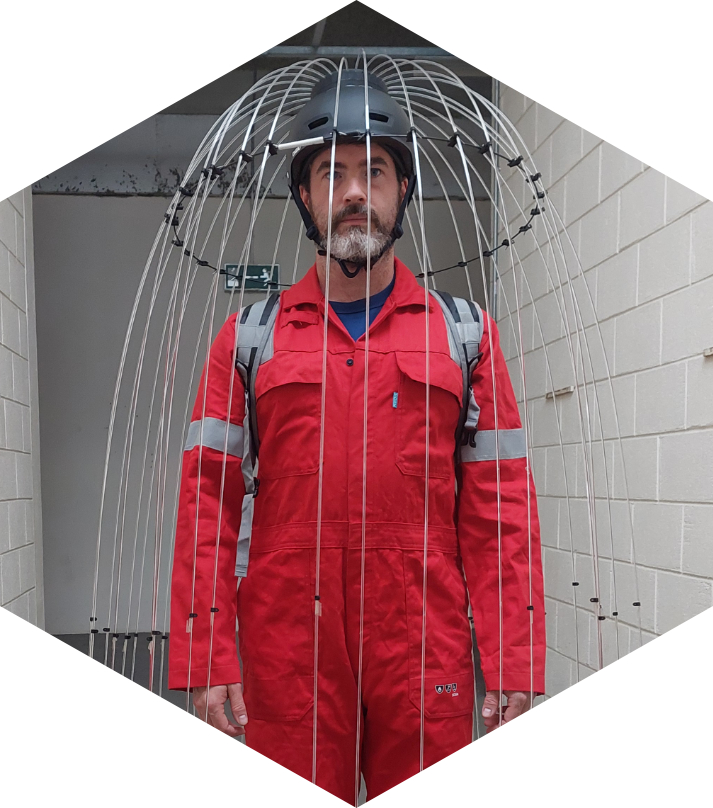
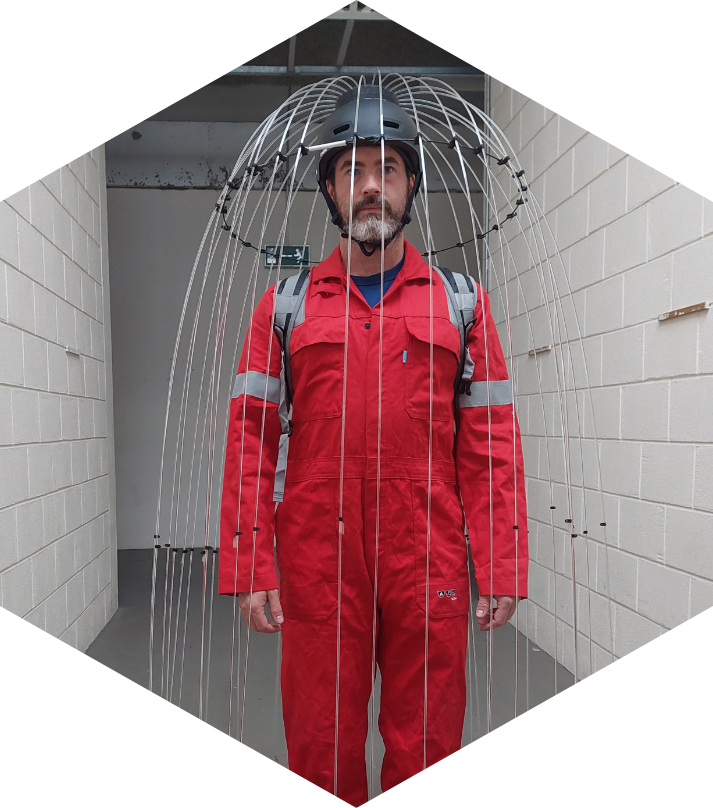
various small changes

diff --git a/css/styles.css b/css/styles.css
@@ -36,7 +36,7 @@
   p {
     font-family: Arial, sans-serif;
     font-size: clamp(var(--base-font-size), 2vw, var(--para-max));
-    text-align: justify;
+    text-align: left;
     margin-top: 0.625rem;
     color: white;
     max-width: 100%;
@@ -232,6 +232,9 @@
      SECTION 0 (HOME) STYLES
      ====================== */
   /* Custom Heading Overrides for Section0 */
+  #section0 {
+    position: relative;
+  }
   #section0 h1 {
     color: #36848a !important;
   }
@@ -244,34 +247,42 @@
     font-size: clamp(32px, 6vw, 40px);
   }
   
-  /* Section0 50/50 Layout */
-  .section0-content {
-    display: flex;
-    flex-direction: row;
-    align-items: center;
-    justify-content: center;
-    gap: 2rem;
-    padding: 20px;
-  }
-  .section0-content .image {
-    max-width: 80%;
-    display: flex;
-    align-items: center;
-    justify-content: center;
-    overflow: hidden;
-  }
-  .section0-content .image img {
-    width: 100%;
-    height: auto;
-    object-fit: contain;
-    max-height: 90vh; /* Adjust this value as needed */
-    object-position: center center;
-  }
-  .section0-content .text {
-    width: 50%;
-    padding-left: 10;
-    text-align: left;
-  }
+  /* Make the section0 content container fill the viewport and use a 50/50 layout */
+.section0-content {
+  display: flex;
+  flex-direction: row;
+  align-items: center;
+  justify-content: center;
+  gap: 2rem;
+  padding: 20px;
+  min-height: 100vh;  /* ensure it fills the viewport */
+}
+
+/* Left column: Image container */
+.section0-content .image {
+  width: 50%;
+  display: flex;
+  align-items: center;
+  justify-content: center;
+}
+
+/* The image itself */
+.section0-content .image img {
+  width: 100%;
+  height: auto;
+  max-height: 90vh;  /* similar constraint as contact page */
+  object-fit: contain;
+  object-position: center center;
+}
+
+/* Right column: Text container */
+.section0-content .text {
+  width: 50%;
+  display: flex;
+  flex-direction: column;
+  justify-content: center;
+  padding: 20px;
+}
   
   /* Mobile adjustments for Section0 */
   @media (max-width: 768px) {
@@ -291,7 +302,7 @@
     section p {
       max-width: 100%;
       padding: 0 2rem;
-      text-align: justify;
+      text-align: left;
     }
   }
   @media (orientation: portrait) {
@@ -313,15 +324,16 @@
   /* Section0 Background Image */
   .section0-image.top {
     position: absolute;
-    top: 0;
-    left: 0;
-    width: 80%;
-    height: 80vh;
-    background-image: url('../images/section0a.jpg');
-    background-size: contain;
-    background-repeat: no-repeat;
-    background-position: center center;
-    z-index: 0;
+  top: 50%;
+  left: 50%;
+  transform: translate(-50%, -50%);
+  width: 80%;
+  height: 80vh;
+  background-image: url('../images/section0a.jpg');
+  background-size: contain;
+  background-repeat: no-repeat;
+  background-position: center center;
+  z-index: 0;
   }
   
   img.responsive {
@@ -419,12 +431,16 @@ section:hover .arrow {
   }
   #biography-page .biog-image-wrapper {
     width: 50%;
-    padding: 20px;
-    box-sizing: border-box;
+    display: flex;
+    padding:20px;
+    align-items: center;
+    justify-content: center;
+    min-height: 100vh; /* Make sure it fills the viewport */
   }
   #biography-page .biog-image {
     width: 100%;
     height: 100%;
+    
     background-image: url('../images/biog.jpg');
     background-size: contain;
     background-repeat: no-repeat;
@@ -433,7 +449,7 @@ section:hover .arrow {
 /* Biography Page Right Column (Text) – remove vertical centering */
 #biography-page .biog-text {
   width: 50%;
-  padding: 2rem;
+  padding: 1rem;
   box-sizing: border-box;
   background: #fff;
   color: #333;
@@ -510,9 +526,12 @@ section:hover .arrow {
 /* Left Column: Background Image */
 .contact-page .content .image {
   width: 50%;
-  /* Use the contact.jpg as a background image */
+  display: flex;
+  align-items: center;
+  justify-content: center;
+  min-height: 100vh;  /* Ensures it fills the viewport */
   background-image: url('../images/contact.jpg');
-  background-size: contain;  /* or cover if you prefer */
+  background-size: contain; /* or cover if preferred */
   background-repeat: no-repeat;
   background-position: center center;
 }

diff --git a/index.html b/index.html
@@ -158,38 +158,56 @@
   </section>
 
   <script>
-    document.addEventListener("DOMContentLoaded", function () {
-      const sections = document.querySelectorAll("section");
+document.addEventListener("DOMContentLoaded", function () {
+  const sections = document.querySelectorAll("section");
+  const upArrows = document.querySelectorAll(".arrow-up");
+  const downArrows = document.querySelectorAll(".arrow-down");
 
-      function scrollToSection(offset) {
-        let currentSection = document.querySelector(".current-section") || sections[0];
-        let index = Array.from(sections).indexOf(currentSection);
-
-        let targetIndex = index + offset;
-        if (targetIndex >= 0 && targetIndex < sections.length) {
-          sections[targetIndex].scrollIntoView({ behavior: "smooth", block: "start" });
-
-          // Remove 'current-section' class from previous section and add it to new one
-          sections.forEach(section => section.classList.remove("current-section"));
-          sections[targetIndex].classList.add("current-section");
-        }
-      }
-
-      document.querySelectorAll(".arrow-down").forEach(arrow => {
-        arrow.addEventListener("click", function () {
-          scrollToSection(1); // Move to next section
-        });
-      });
-
-      document.querySelectorAll(".arrow-up").forEach(arrow => {
-        arrow.addEventListener("click", function () {
-          scrollToSection(-1); // Move to previous section
-        });
-      });
-
-      // Mark the first section as active initially
-      sections[0].classList.add("current-section");
+  function updateArrowVisibility(currentIndex) {
+    // Hide up arrows if on the first section (index 0), show otherwise
+    upArrows.forEach(arrow => {
+      arrow.style.display = currentIndex === 0 ? "none" : "block";
     });
+  }
+
+  function scrollToSection(offset) {
+    let currentSection = document.querySelector(".current-section") || sections[0];
+    let index = Array.from(sections).indexOf(currentSection);
+    let targetIndex = index + offset;
+
+    // Wrap-around logic for down arrow only, if you need it
+    if (targetIndex < 0) {
+      targetIndex = sections.length - 1;
+    } else if (targetIndex >= sections.length) {
+      targetIndex = 0;
+    }
+
+    sections[targetIndex].scrollIntoView({ behavior: "smooth", block: "start" });
+    
+    sections.forEach(section => section.classList.remove("current-section"));
+    sections[targetIndex].classList.add("current-section");
+
+    // Update up arrow visibility after scrolling
+    updateArrowVisibility(targetIndex);
+  }
+
+  downArrows.forEach(arrow => {
+    arrow.addEventListener("click", function () {
+      scrollToSection(1); // Move to next section
+    });
+  });
+
+  upArrows.forEach(arrow => {
+    arrow.addEventListener("click", function () {
+      scrollToSection(-1); // Move to previous section
+    });
+  });
+
+  // Mark the first section as active initially and update arrow visibility
+  sections[0].classList.add("current-section");
+  updateArrowVisibility(0);
+});
+
   </script>
     <script>
 // Place this script in your HTML before the closing </body> tag or in an external JS file
